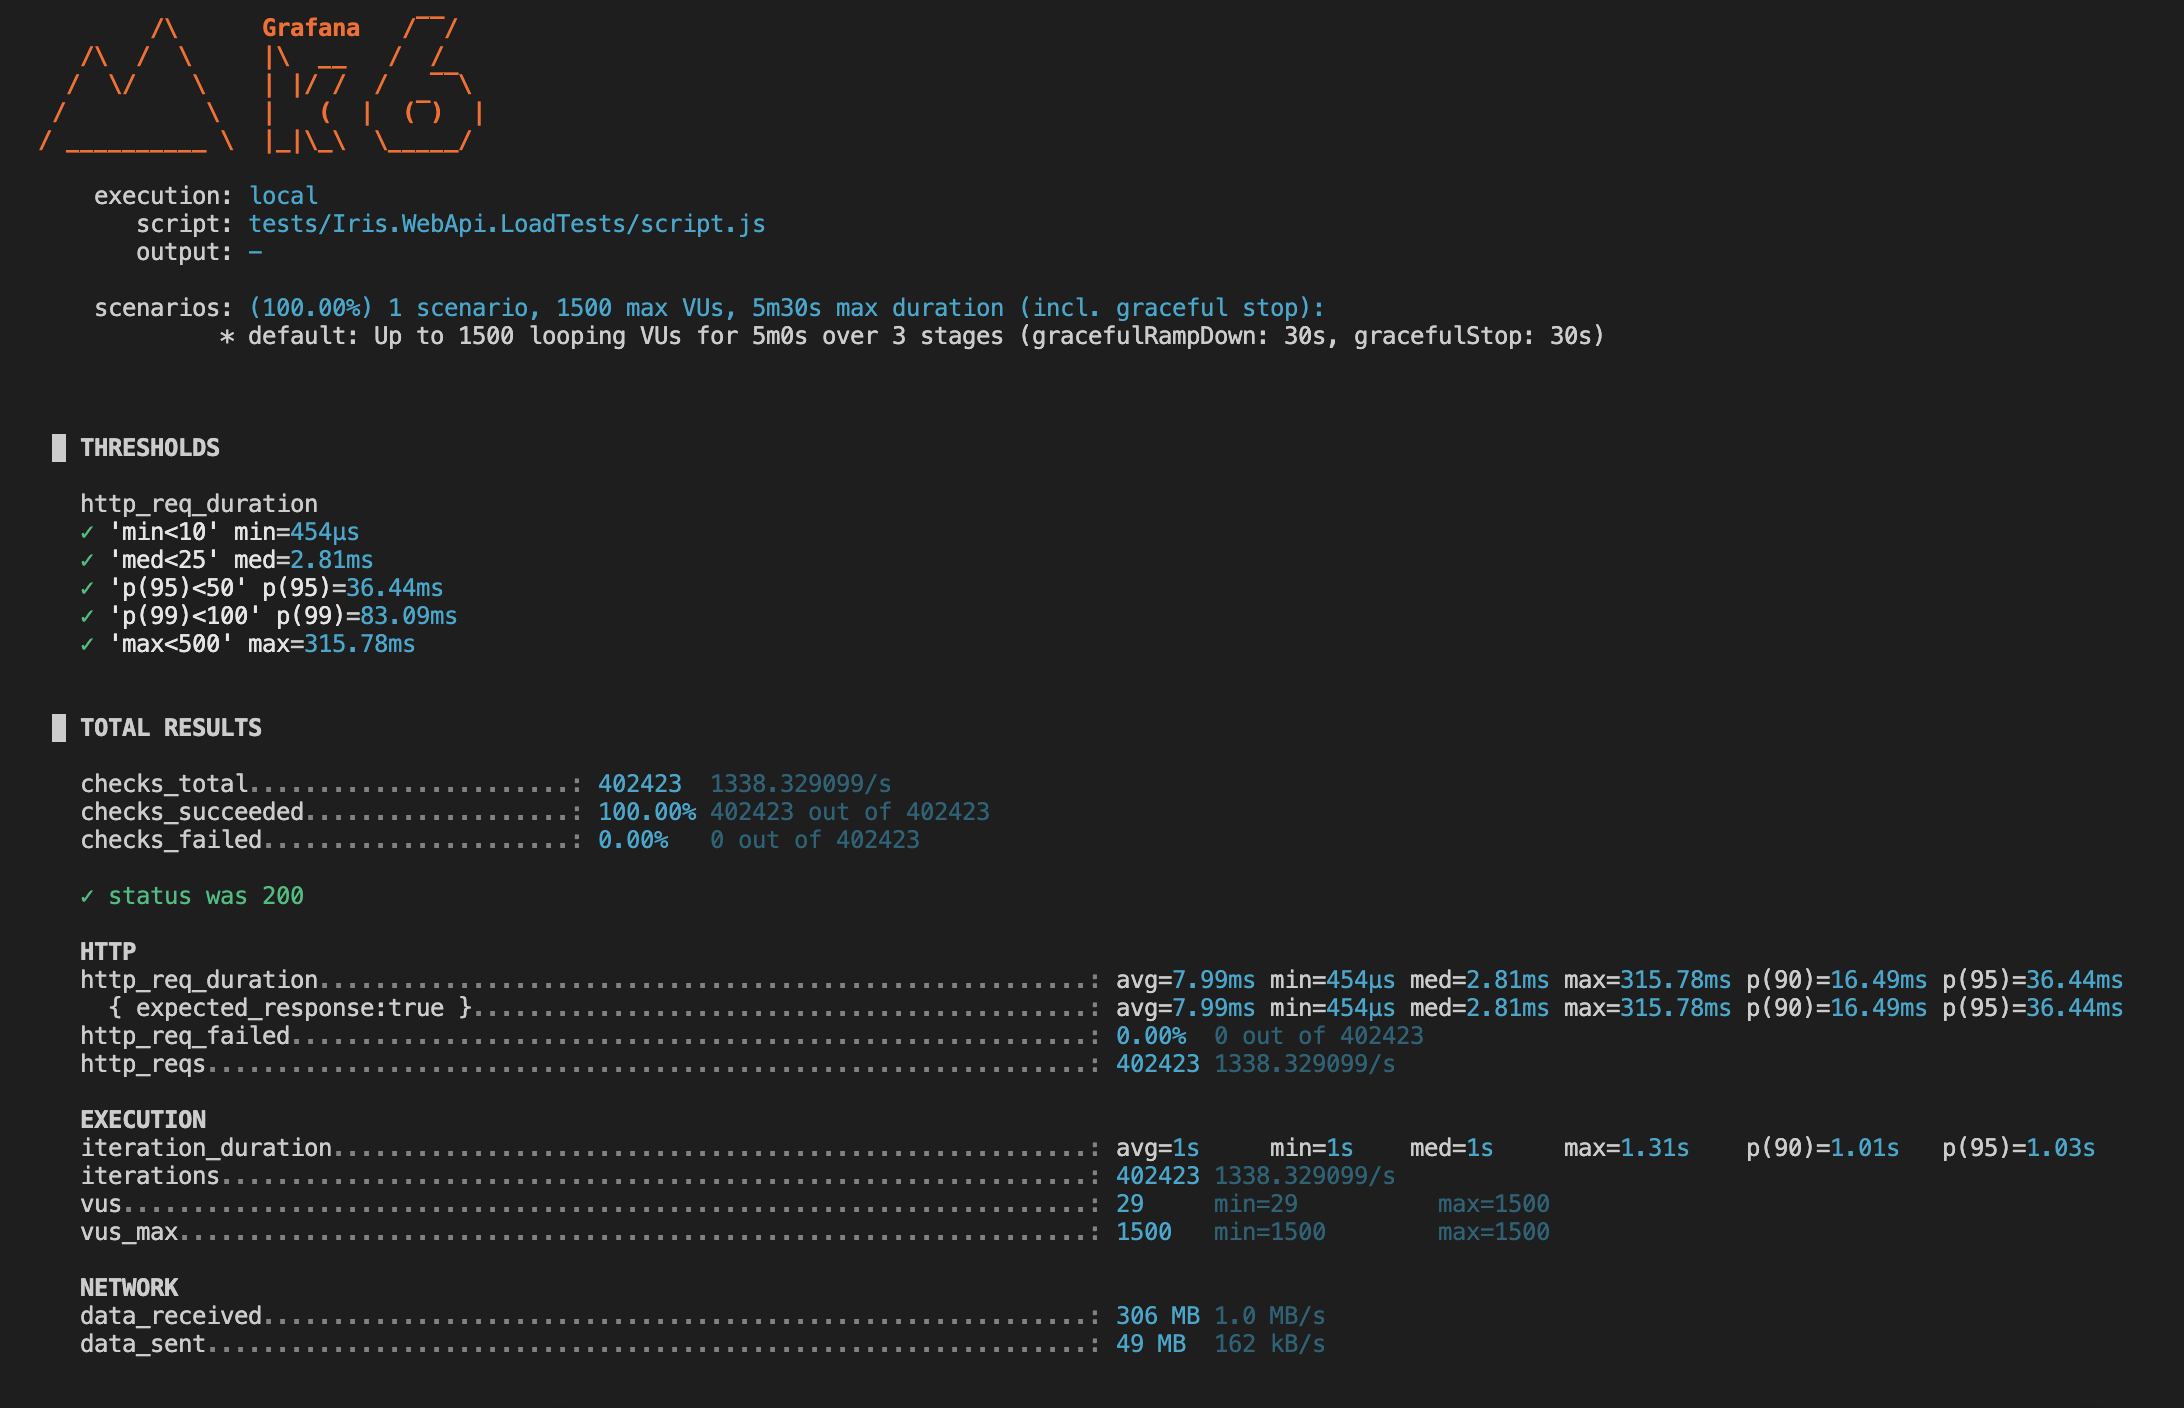
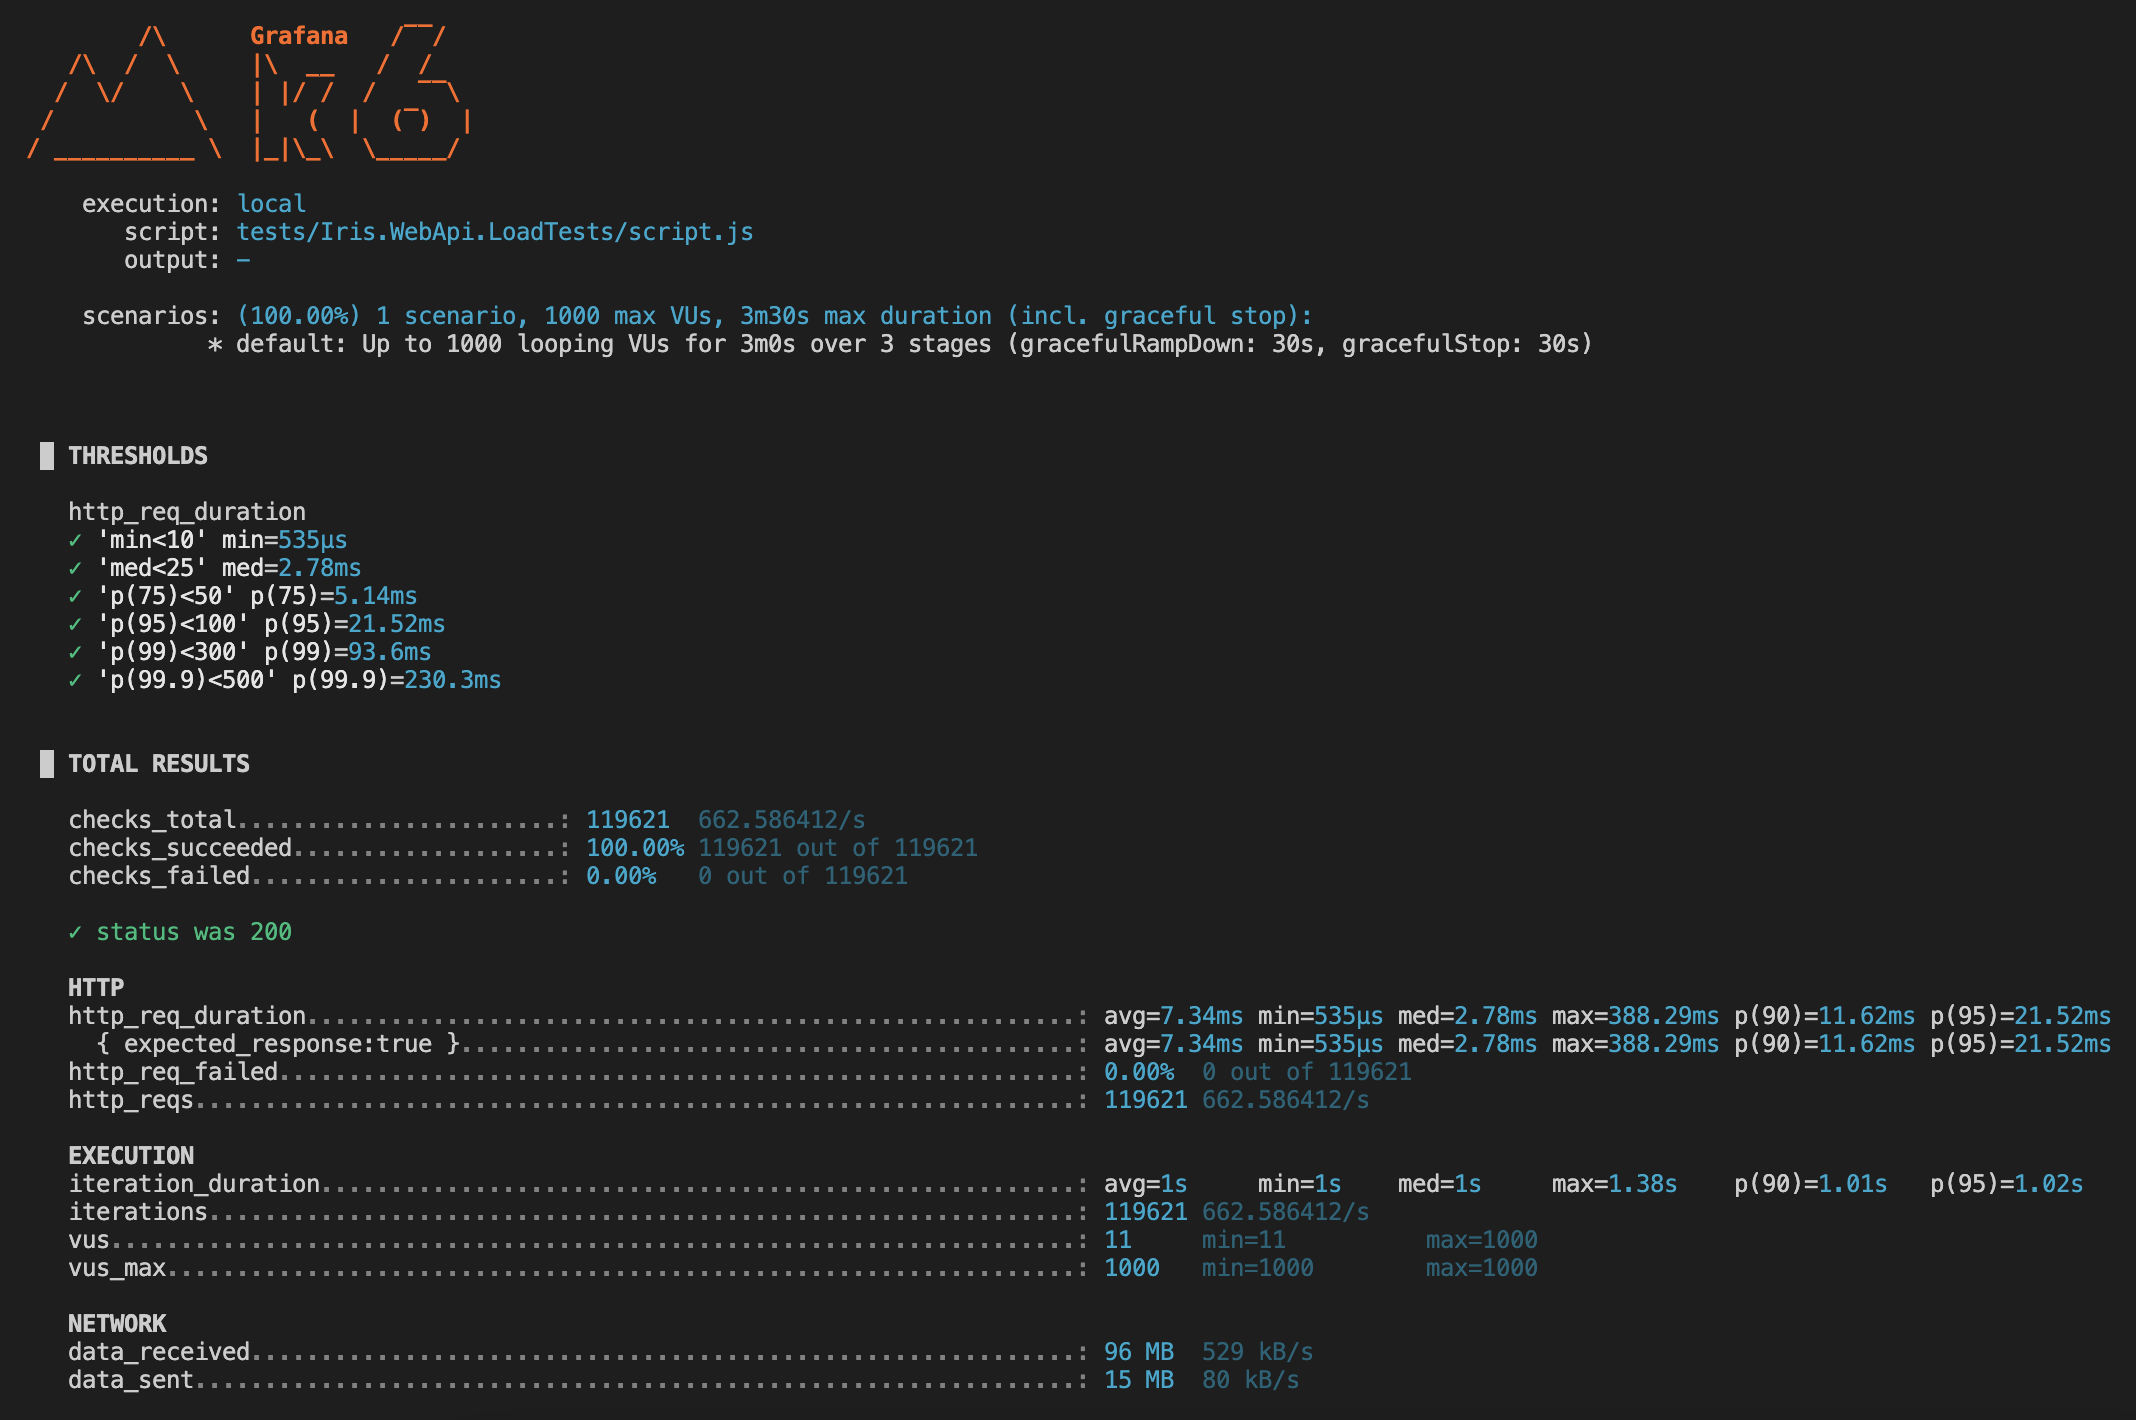
docs: updates results

diff --git a/tests/Iris.WebApi.LoadTests/script.js b/tests/Iris.WebApi.LoadTests/script.js
@@ -1,6 +1,8 @@
 import http from 'k6/http';
 import { check, sleep } from 'k6';
 
+const target_vus = __ENV.TARGET_VUS ? parseInt(__ENV.TARGET_VUS) : 1000;
+
 export const options = {
     thresholds: {
         http_req_duration: [
@@ -13,8 +15,8 @@ export const options = {
         ],
     },
     stages: [
-        { duration: "60s", target: 500 },
-        { duration: "60s", target: 1000 },
+        { duration: "60s", target: target_vus },
+        { duration: "60s", target: target_vus },
         { duration: "60s", target: 0 }
     ]
 };
